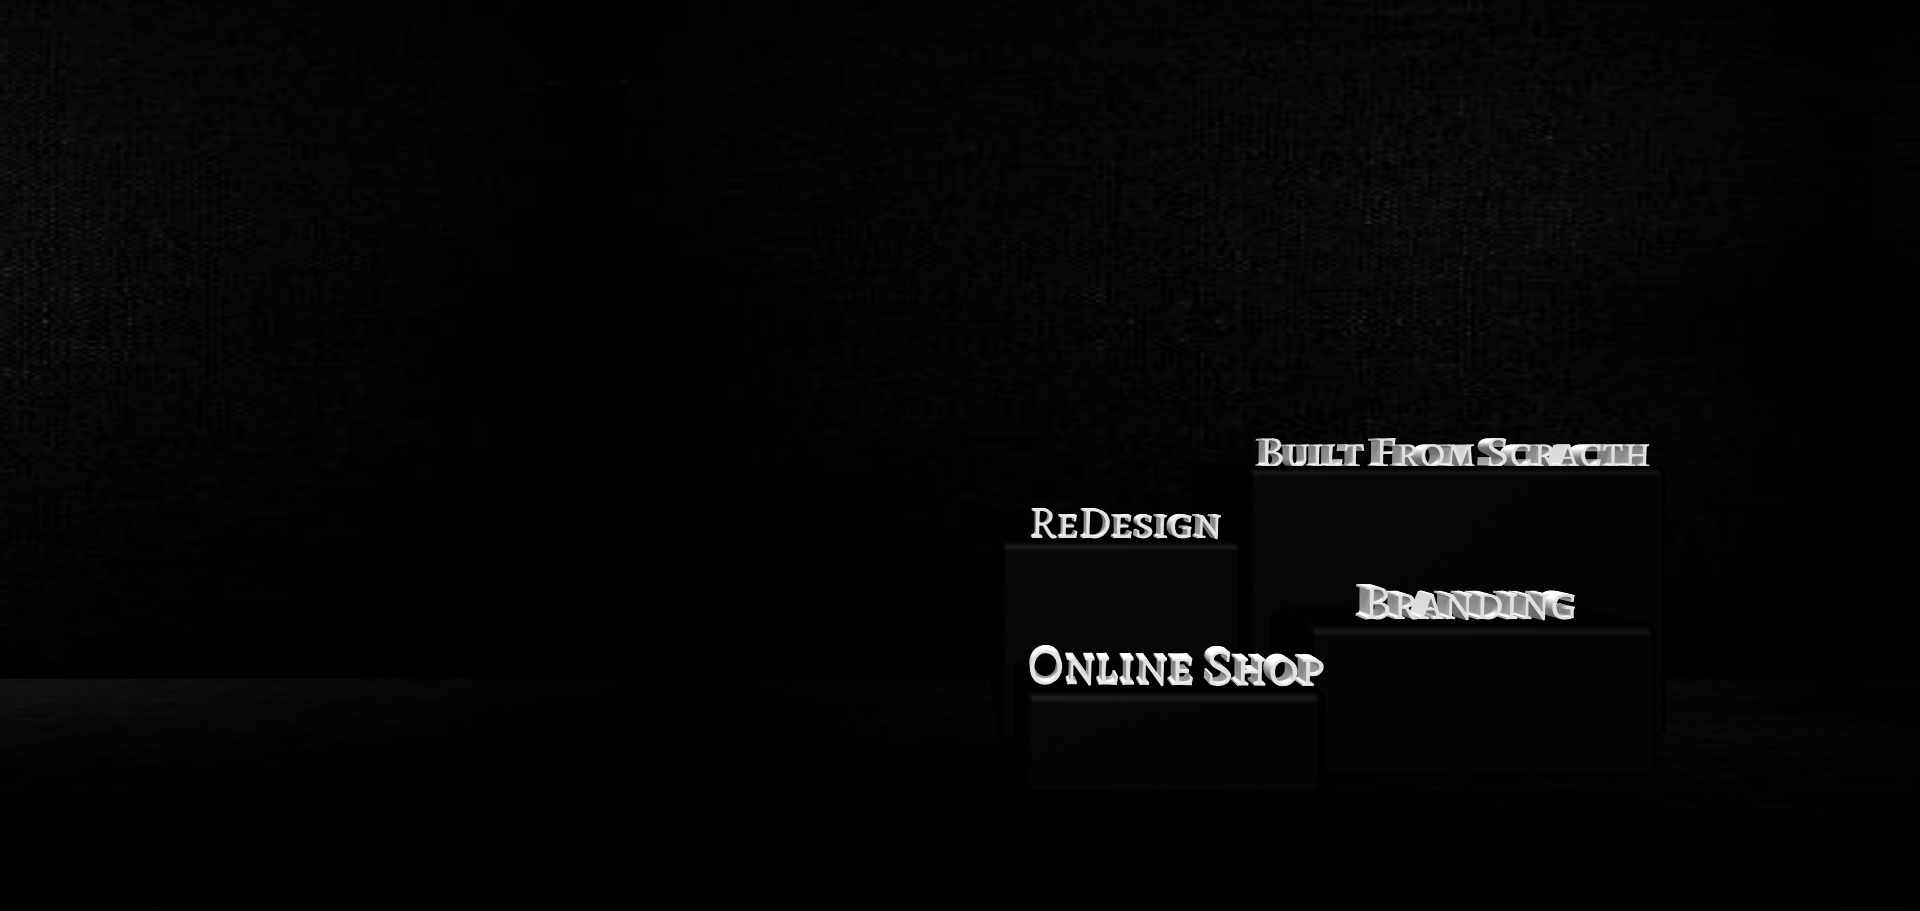
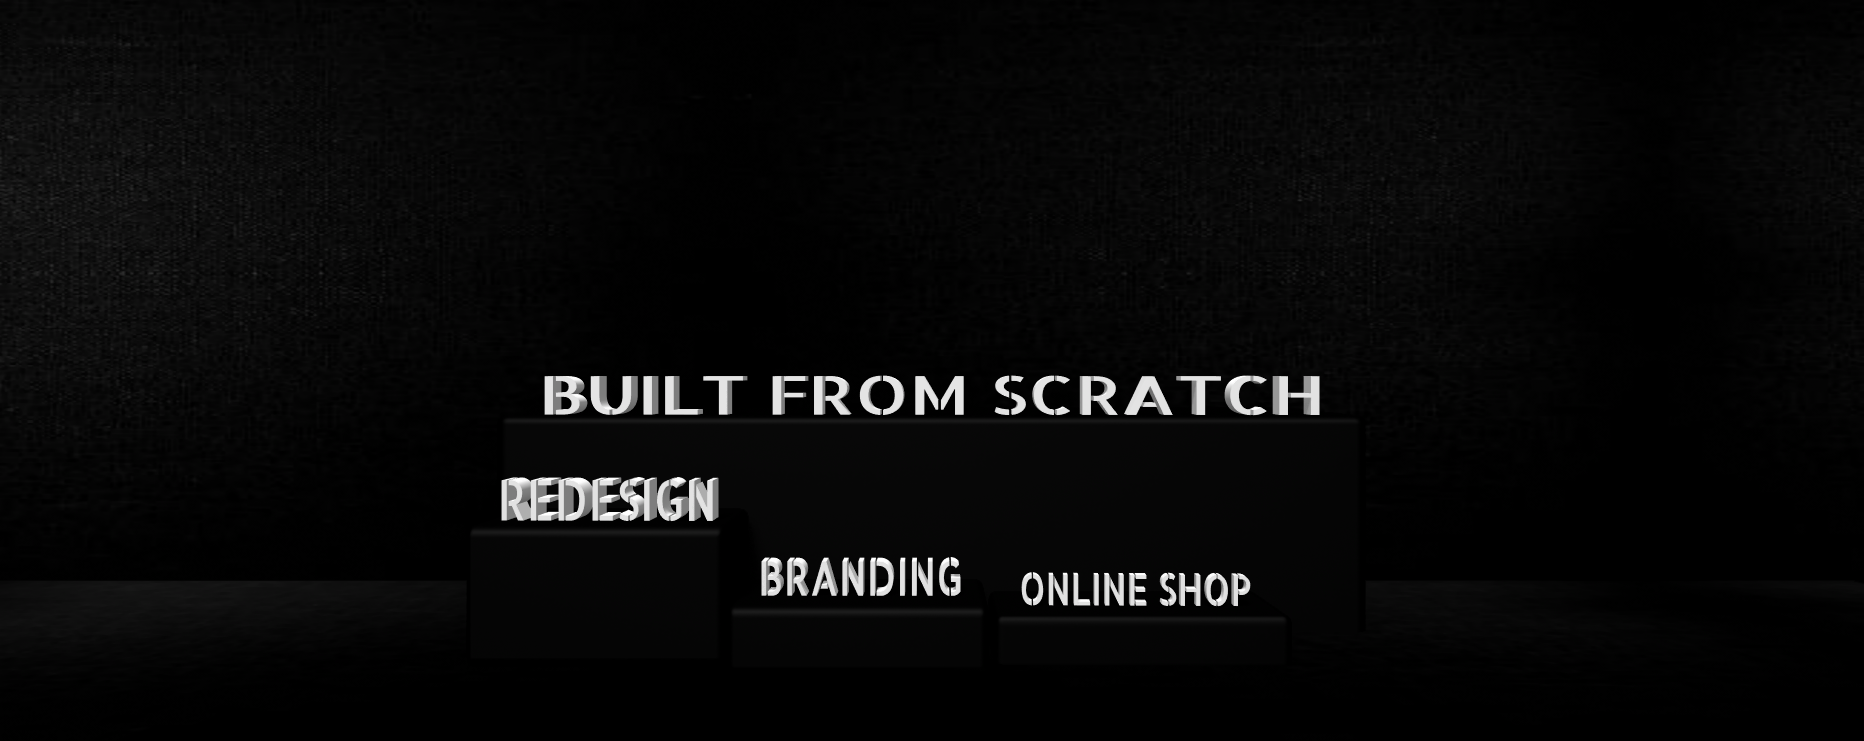
background header

diff --git a/src/app/components/Header.jsx b/src/app/components/Header.jsx
@@ -11,40 +11,45 @@ const breakpoints = {
 
 const Container = styled.div({
   display: 'grid',
-  padding: '30px',
+  padding: '21rem',
   position: 'absolute',
   paddingTop: '4rem',
+  // margin: 'auto',
+  // textAlign: 'center',
   [`@media (min-width: ${breakpoints.md})`]: {
     paddingTop: '14rem',
-    paddingLeft: '15rem',
-    paddingRight: '65rem',
-    textAlign: 'start',
+    // paddingLeft: '15rem',
+    // paddingRight: '65rem',
+    // textAlign: 'start',
   },
 });
 
 const HeaderTitle = styled.div({
-  fontFamily: 'fantasy',
   fontSize: '40px',
+  margin: 'auto',
   marginTop: '-3rem',
-  textAlign: 'start',
-  lineHeight: '2.5rem',
+  // textAlign: 'start',
+  // lineHeight: '2.5rem',
+  // textAlign: 'center',
   [`@media (min-width: ${breakpoints.md})`]: {
     fontSize: '55px',
-    lineHeight: '5rem',
+    // lineHeight: '5rem',
     },
   [`@media (min-width: ${breakpoints.lg})`]: {
-    fontSize: '80px',
-    lineHeight: '5rem',
+    fontSize: '59px',
+    lineHeight: '4.5rem',
     },
 });
 
 const Content = styled.div({
   fontSize: '15px',
-  textAlign: 'start',
+  // textAlign: 'start',
+  // margin: 'auto',
   marginBottom: '3rem',
+  textAlign: 'center',
   color: '#aaa',
   [`@media (min-width: ${breakpoints.md})`]: {
-    fontSize: '18px',
+    fontSize: '15px',
     marginBottom: '3rem',
     },
 });
@@ -75,18 +80,12 @@ export default function Header() {
     )} */}
 
     {(!isTablet && 
-      <img className="md:-mt-12" src="/Header-bg.png" alt="bg"  />
+      <img className="md:-mt-12" src="/Header-bg.png" alt="bg" width={2000} />
     )}
     
     <Container>
-        <HeaderTitle>
-          {subheaderText}
-        </HeaderTitle>
-        <Content>
-          <p>{ForsideData.content}</p>
-          <p>{ForsideData.content2}</p>
-          <p>{ForsideData.content3}</p>
-        </Content>
+        <HeaderTitle>{subheaderText}</HeaderTitle>
+        <Content>{ForsideData.content}</Content>
     </Container>
     </>
   );

diff --git a/src/app/data/ForsideData.jsx b/src/app/data/ForsideData.jsx
@@ -1,8 +1,6 @@
 export const ForsideData = {
-    subheader: "Let me elevate YOUR website to the next Level",
-    content: "Frustrated with unresponsive websites?",
-    content2: "Disappointed by partners who overpromise and underdeliver?",
-    content3: "You’re not alone — & I'm here to change that",
+    subheader: "Let me elevate your website to the next Level",
+    content: "Frustrated with unresponsive websites? Disappointed by partners who overpromise and underdeliver? You’re not alone — & I'm here to change that",
     button: "Get started",
 }
 

diff --git a/src/app/components/Tech.jsx b/src/app/components/Tech.jsx
@@ -16,7 +16,7 @@ const Container = styled.div({
   padding: '2rem',
   backgroundColor: '#110000',
     [`@media (min-width: ${breakpoints.md})`]: {
-      marginTop: '10rem',
+      marginTop: '15rem',
       },
 });
 
